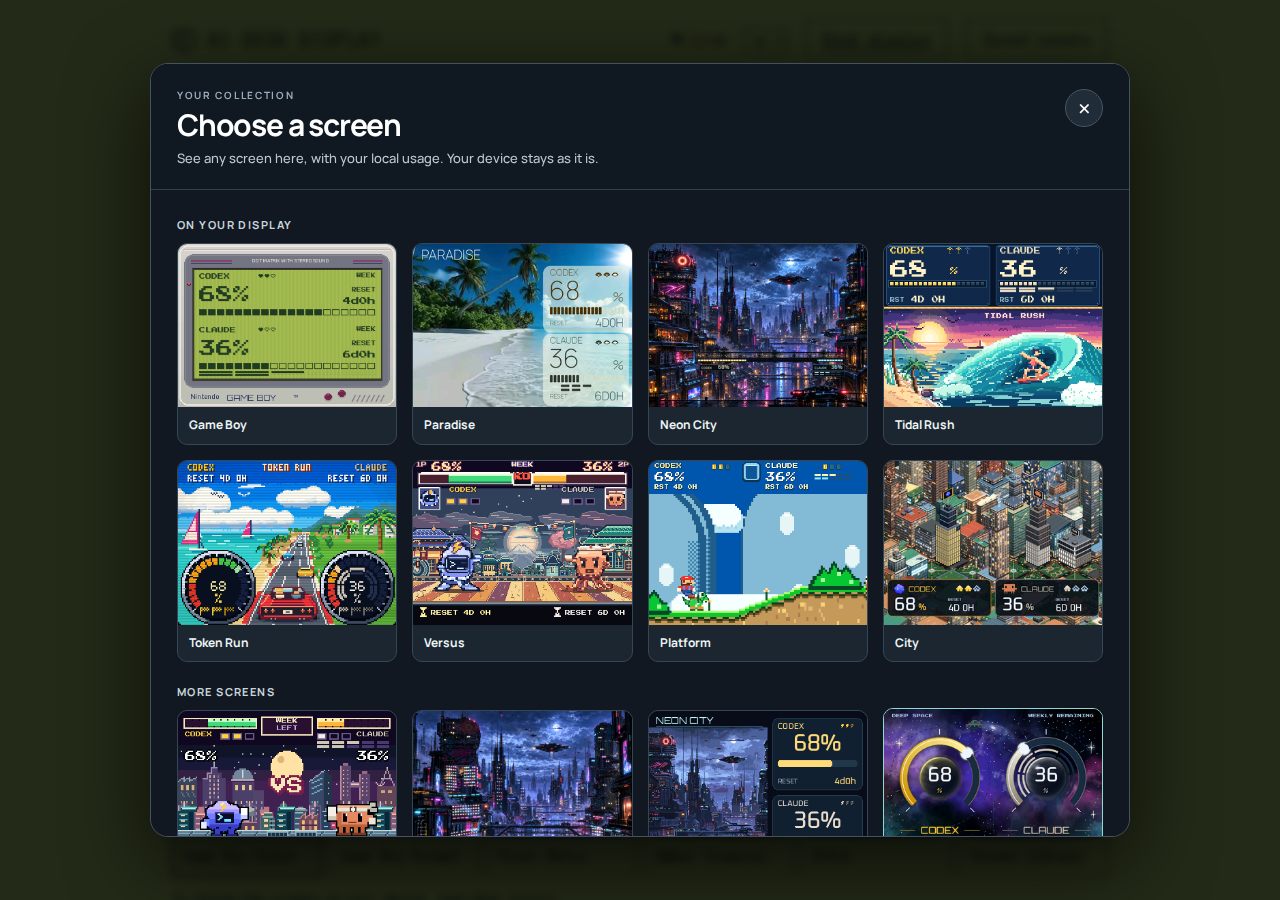
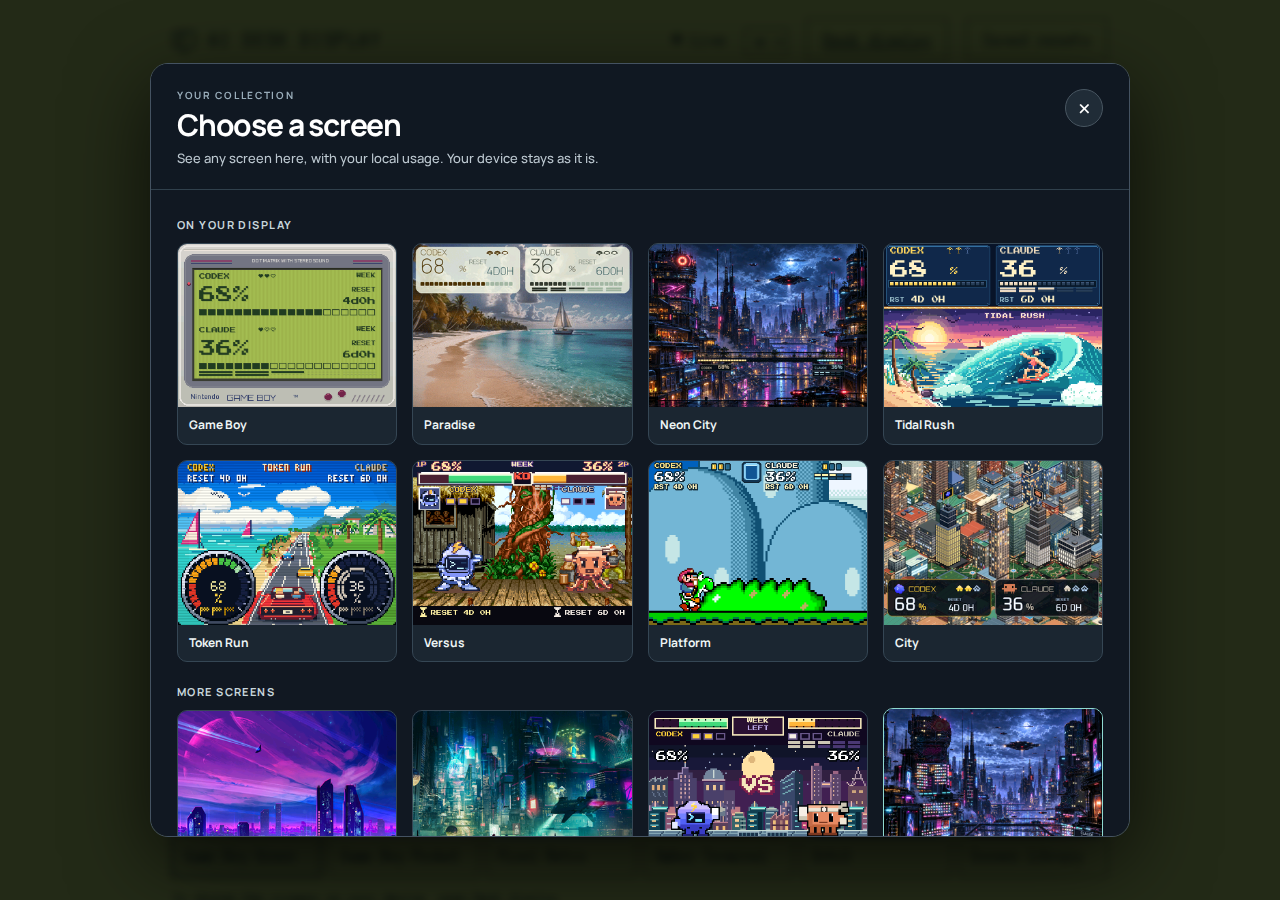
docs: show current display screens in README

Changed region(s): [[0.125, 0.7778, 0.875, 0.9333], [0.3125, 0.4978, 0.6875, 0.7156], [0.3125, 0.2489, 0.5, 0.4667]]

diff --git a/README.md b/README.md
@@ -13,11 +13,23 @@ A Game Boy. A cyberpunk city. A beach. Claude and Codex in an arcade fight.
 
 [Download ZIP](https://github.com/TonyRod116/ai-desk-display/archive/refs/heads/main.zip) · [Meet the screens](#eight-screens-zero-boredom) · [Try without hardware](#try-it-without-a-display-or-an-account) · [Build yours](#okay-i-want-this-on-my-desk) · [Make it your own](#make-it-yours-with-or-without-ai)
 
-![All eight AI Desk Display scenes with fictional usage data](docs/images/gallery.png)
-
-*Rendered by the actual app. Sample numbers, no personal accounts.*
-
 </div>
+
+## Eight screens, zero boredom
+
+Pick any eight from the library. Here are ten of my favourites:
+
+| | |
+|:---:|:---:|
+| **Violet Horizon** · clouds and neon above a city that never sleeps.<br>![Violet Horizon — animated cyberpunk skyline with sample numbers](docs/images/violet-horizon.gif?v=a3c6014362)<br>*Optional local artwork* | **Neon District** · a rainy rooftop and a city full of signs.<br>![Neon District — animated cyberpunk city with sample numbers](docs/images/neon-district.gif?v=aa28bc1e23)<br>*Optional local artwork* |
+| **Game Boy** · green LCD, pixels and nostalgia.<br>![Game Boy — simulated quota updates](docs/images/game-boy.gif) | **Paradise** · a tiny tropical break between prompts.<br>![Paradise — moving ocean and sailboat](docs/images/paradise.gif?v=8604eaf692)<br>*Optional local artwork* |
+| **Neon City** · flying cars, neon bridges and a suspiciously useful skyline.<br>![Neon City — animated traffic and bridge quota lights](docs/images/code-forge.gif) | **Tidal Rush** · ride the barrel, chase the foam, forget the next prompt.<br>![Tidal Rush — flowing wave and animated breaking foam](docs/images/surf.gif)<br>[Still image](docs/images/surf.png) · [Under the hood](docs/board-surf.md) |
+| **Token Run** · coastal cruising, approaching palms and a red convertible.<br>![Token Run — coastal road with palms growing closer and passing on the right](docs/images/dials.gif)<br>[Still image](docs/images/dials.png) · [Under the hood](docs/board-run.md) | **Versus** · Codex and Claude enter a pixel-art arena. Empty quota? KO.<br>![Versus — animated fighters in a retro arena](docs/images/arcade.gif?v=788986f11c)<br>*Optional local stage* · [Still image](docs/images/arcade.png?v=8fcf5798d0) · [Under the hood](docs/board-versus.md) |
+| **Platform World** · a side-scrolling pixel adventure with a quota HUD.<br>![Platform World — scrolling pixel-art scenery](docs/images/cockpit.gif?v=c11b1ebc70)<br>*Optional local artwork* · [Still image](docs/images/cockpit.png?v=0c1ba7032b) · [Under the hood](docs/board-platform.md) | **Quota City** · a detailed isometric skyline that shows what's left.<br>![Quota City — city animation](docs/images/countdown.gif) |
+
+These GIFs show my current setup with **fictional readings**. The scenes labelled *optional local artwork* or *stage* use personal customizations that aren't included in a fresh download. Paradise, Versus and Platform have bundled alternatives; Violet Horizon and Neon District need their own images. The previews can show third-party artwork; see [asset notes](ASSETS.md). Moving scenes are captured with the firmware simulator, except the scrolling platform scene, which uses its matching Python renderer. The Game Boy screen is normally static: its GIF demonstrates **accelerated sample quota updates**, not a constantly moving LCD. GIFs have a limited color palette; the display receives RGB565 frames.
+
+On compatible hardware, animations run **on the board**. Your computer doesn't have to upload a new picture for every frame. Prefer still images? [Open the PNG gallery](docs/images/gallery.png?v=32cb16a70b).
 
 ## From lottery miner to quota watcher
 
@@ -35,19 +47,6 @@ The fun is in how it tells you: neon bridge lights retreat as you spend your quo
 
 **AI Desk Display** is a project by Tony, built with Claude Code and Codex: eight customisable screen slots, a library of current and earlier scenes, on-board animation, touch controls, timed screen rotation and local usage readers. It's designed around the **2.8-inch NerdMiner V2 touchscreen** (ESP32-2432S028R). This repo includes the host application, display firmware, bundled artwork and tools to make it your own.
 
-## Eight screens, zero boredom
-
-| | |
-|:---:|:---:|
-| **Game Boy** · green LCD, pixels and nostalgia.<br>![Game Boy — simulated quota updates](docs/images/game-boy.gif) | **Paradise** · a tiny tropical break between prompts.<br>![Paradise — moving ocean](docs/images/paradise.gif) |
-| **Neon City** · flying cars, neon bridges and a suspiciously useful skyline.<br>![Neon City — animated traffic and bridge quota lights](docs/images/code-forge.gif) | **Tidal Rush** · ride the barrel, chase the foam, forget the next prompt.<br>![Tidal Rush — flowing wave and animated breaking foam](docs/images/surf.gif)<br>[Still image](docs/images/surf.png) · [Under the hood](docs/board-surf.md) |
-| **Token Run** · coastal cruising, approaching palms and a red convertible.<br>![Token Run — coastal road with palms growing closer and passing on the right](docs/images/dials.gif)<br>[Still image](docs/images/dials.png) · [Under the hood](docs/board-run.md) | **Versus** · Codex and Claude enter a pixel-art arena. Empty quota? KO.<br>![Versus — animated fighters in a retro arena](docs/images/arcade.gif)<br>[Still image](docs/images/arcade.png) · [Under the hood](docs/board-versus.md) |
-| **Platform World** · a side-scrolling pixel adventure with a quota HUD.<br>![Platform World — scrolling pixel-art scenery](docs/images/cockpit.gif)<br>[Still image](docs/images/cockpit.png) · [Under the hood](docs/board-platform.md) | **Quota City** · a detailed isometric skyline that shows what's left.<br>![Quota City — city animation](docs/images/countdown.gif) |
-
-These GIFs use **fictional readings** and bundled artwork. Moving scenes are captured with the firmware simulator, except the scrolling platform scene, which uses its matching Python renderer. The Game Boy screen is normally static: its GIF demonstrates **accelerated sample quota updates**, not a constantly moving LCD. GIFs have a limited color palette; the display receives RGB565 frames.
-
-On compatible hardware, animations run **on the board**. Your computer doesn't have to upload a new picture for every frame. Prefer still images? [Open the PNG gallery](docs/images/gallery.png).
-
 Neon City's bridge is doing the accounting: **amber lights on the left for Codex, cyan on the right for Claude**. As weekly quota runs down, each strip retreats toward its outer end. Tiny signs show the exact percentages; Claude also gets two small five-hour bars. The buildings get to stay pretty. [See how it works, or grab the full-resolution artwork](docs/board-neon-city.md).
 
 Token Run gets a little more road-trip energy: **resort palms grow closer and pass on the right**, while the nearby roadside scenery rushes past faster. No swaying back to where they started. Just a coastal drive, a red convertible and two AI quotas pretending to be dashboard instruments. The still, GIF and overview above show the updated scene. [Take the scenic route](docs/board-run.md).
@@ -58,9 +57,9 @@ The eight slots are yours to rearrange. The local **Desk display** page lets you
 
 The **Usage dashboard** can also display any available scene on your computer, above its detailed usage cards. Its choice belongs to that browser and **doesn't change the physical display**. The dashboard also retains its classic appearances. Both pages offer **English and Spanish**, with English as the default.
 
-![The screen library in the local usage dashboard, showing fictional readings](docs/images/screen-library.png)
+![The screen library in the local usage dashboard, showing fictional readings](docs/images/screen-library.png?v=6e25b3b12c)
 
-Two additional photo scenes, **Violet Horizon** and **Neon District**, become available when you supply the matching local images. The platform, fight and beach scenes also support optional local artwork; the gallery above shows the included alternatives. No game ROMs, extracted game assets or private photo collections are shipped. See the guides for the [control room](docs/board-control.md), [platform](docs/board-platform.md), [fight](docs/board-versus.md) and [beach](docs/board-paradise.md).
+Two additional photo scenes, **Violet Horizon** and **Neon District**, become available when you supply the matching local images. The platform, fight and beach scenes also support optional local artwork, as shown above. No game ROMs, source sprite files or private photo collections are shipped. See the guides for the [control room](docs/board-control.md), [platform](docs/board-platform.md), [fight](docs/board-versus.md) and [beach](docs/board-paradise.md).
 
 ### Your display's control room
 

diff --git a/ASSETS.md b/ASSETS.md
@@ -4,7 +4,7 @@
 - Fonts ship with their respective license files in token_tv/web/. Keep these notices when redistributing them.
 - Pixel mascots and original bundled assets originate in TokenTV; see token_tv/assets/README.md. Provider names and recognizable branding remain the property of their respective owners. No endorsement is implied.
 - The project maintainer confirmed permission on 2026-10-23 to publish the supplied beach and city reference imagery and their prepared derivatives in this repository. The realistic city is an AI-assisted transformation of the supplied city reference. This statement records the maintainer's confirmation; it is not an independently verified license for the underlying third-party imagery. Do not assume MIT grants unrestricted rights to those source images outside this project; contact the maintainer for the underlying permission before separately redistributing them.
-- Procedural scene renderers and locally drawn elements are included with the source code. Their retro-game inspirations do not include game ROMs or extracted game assets.
+- Procedural scene renderers and locally drawn elements are included with the source code. Game ROMs and separate extracted game asset files are not included.
 - The current Neon City bridge artwork is another AI-assisted transformation of the same authorized city reference, made with the built-in image generator. Its full-resolution source and exact prompt are in `docs/art/neon-city-bridge-master.png` and `docs/art/neon-city-bridge-prompt.txt`; the runtime image is `token_tv/assets/neon-city-bridge.png`. The earlier city variants remain available. The supplied-image permission note above applies to these derivatives too.
 - Optional local artwork for the platform, fight, beach and two extra city scenes is not bundled or fetched. Supply your own suitable artwork and check you have permission to use it; the included scenes work without game ROMs or extracted game graphics.
-- README scene previews are rendered with fictional quota data and bundled artwork using scripts/render_gallery.py and scripts/render_animations.py. Animated previews use the firmware simulator (ANIM/WAVE), the matching Python scrolling renderer (SCRO), or explicitly labelled synthetic quota updates for the static LCD scene. The screen-library screenshot uses an isolated local demo and fictional readings. No private account screenshots are included.
+- README previews use fictional quota data. Some depict the maintainer's locally customized scenes, including third-party game and photo artwork; the original source files are not included, and these images are not a grant of rights to the underlying artwork. The demo scripts render the bundled alternatives. Animated previews use the firmware simulator (ANIM/WAVE), the matching Python scrolling renderer (SCRO), or explicitly labelled synthetic quota updates for the static LCD scene. The screen-library screenshot uses an isolated local demo and fictional readings. No private account screenshots are included.

diff --git a/docs/board-platform.md b/docs/board-platform.md
@@ -1,12 +1,12 @@
 # Platform World · page 7
 
-An original pixel-art platform level inspired by Super Mario World, rendered at the board's native 320 × 240 resolution. The still and animation below use **fictional sample data**.
+An original pixel-art platform level inspired by Super Mario World, rendered at the board's native 320 × 240 resolution. The animation below shows a custom local art set with **fictional sample data**. A different original-art version is included without the optional files.
 
-![Animated platform scene with sample data](images/cockpit.gif)
+![Animated platform scene with sample data](images/cockpit.gif?v=c11b1ebc70)
 
 The top scoreboard shows each provider's remaining **weekly** quota and time to its weekly reset. Old readings are marked `OLD`; unknown values are dashes. The three little coins represent saved resets: bright for available, dim for unavailable, with a subtle dot when unknown or old. Claude's two smaller rows show its five-hour session quota and time remaining, and are omitted when that session is unknown or old. When an exhausted Codex week has a verified credit balance, credits replace its percentage. None of these values is invented by the scene.
 
-Firmware 20 can also display an optional, privately supplied art set with eight 56 × 64 mounted-character poses, a coin and a moving shell. The assets stay on the user's computer; this repository does not include, download or distribute game graphics. The display stores the finished scene locally and continues animating without streaming frames. If those private files are missing or damaged, the host automatically uses the firmware 19 scene. The movement is a short, scripted display animation, not the original game's engine.
+Firmware 20 can also display an optional, privately supplied art set with eight 56 × 64 mounted-character poses, a coin and a moving shell. Source assets stay on the user's computer; this repository does not include or download the original game or separate game sprite files. The preview above depicts a customized example, not a license to reuse its artwork. The display stores the finished scene locally and continues animating without streaming frames. If those private files are missing or damaged, the host automatically uses the firmware 19 scene. The movement is a short, scripted display animation, not the original game's engine.
 
 Firmware 21 advertises `scroll:4` and moves the original-art landscape across the entire screen, including behind the outlined, stationary scoreboard. Its compact transparent overlay preserves the live numbers, their unknown/old states, the session bars and the verified credit badge. The board continues rendering locally; the extra scenery is not streamed as video. Older boards keep their existing formats, and missing private artwork still falls back to the bundled scene.
 

diff --git a/docs/board-versus.md b/docs/board-versus.md
@@ -1,9 +1,10 @@
 # Versus · the arcade fight
 
 Codex and Claude face off in a pixel-art arena inspired by 1990s fighting games.
-The animation below uses fictional readings and the bundled stage.
+The animation below uses fictional readings and a custom local stage. A different
+original arena is included and works without the optional artwork.
 
-![Versus animated with fictional readings](images/arcade.gif)
+![Versus animated with fictional readings](images/arcade.gif?v=788986f11c)
 
 The health bars show weekly allowance remaining: green when there's plenty,
 amber in the middle and red when it's running low. A fighter falls when a
@@ -21,7 +22,7 @@ where the firmware supports it. A previous **Night Train** version remains
 available in the [screen library](board-control.md).
 
 The included arena works on its own. You may optionally supply a different
-local stage and ambient art; no game graphics are shipped or downloaded. If the
+local stage and ambient art; the source stage files are not shipped or downloaded. If the
 optional files are missing or invalid, the display falls back to the bundled
 scene. Use assets you have permission to use. Place an RGB `stage.png`
 (320 × 240) and two sets of four transparent RGBA frames in
